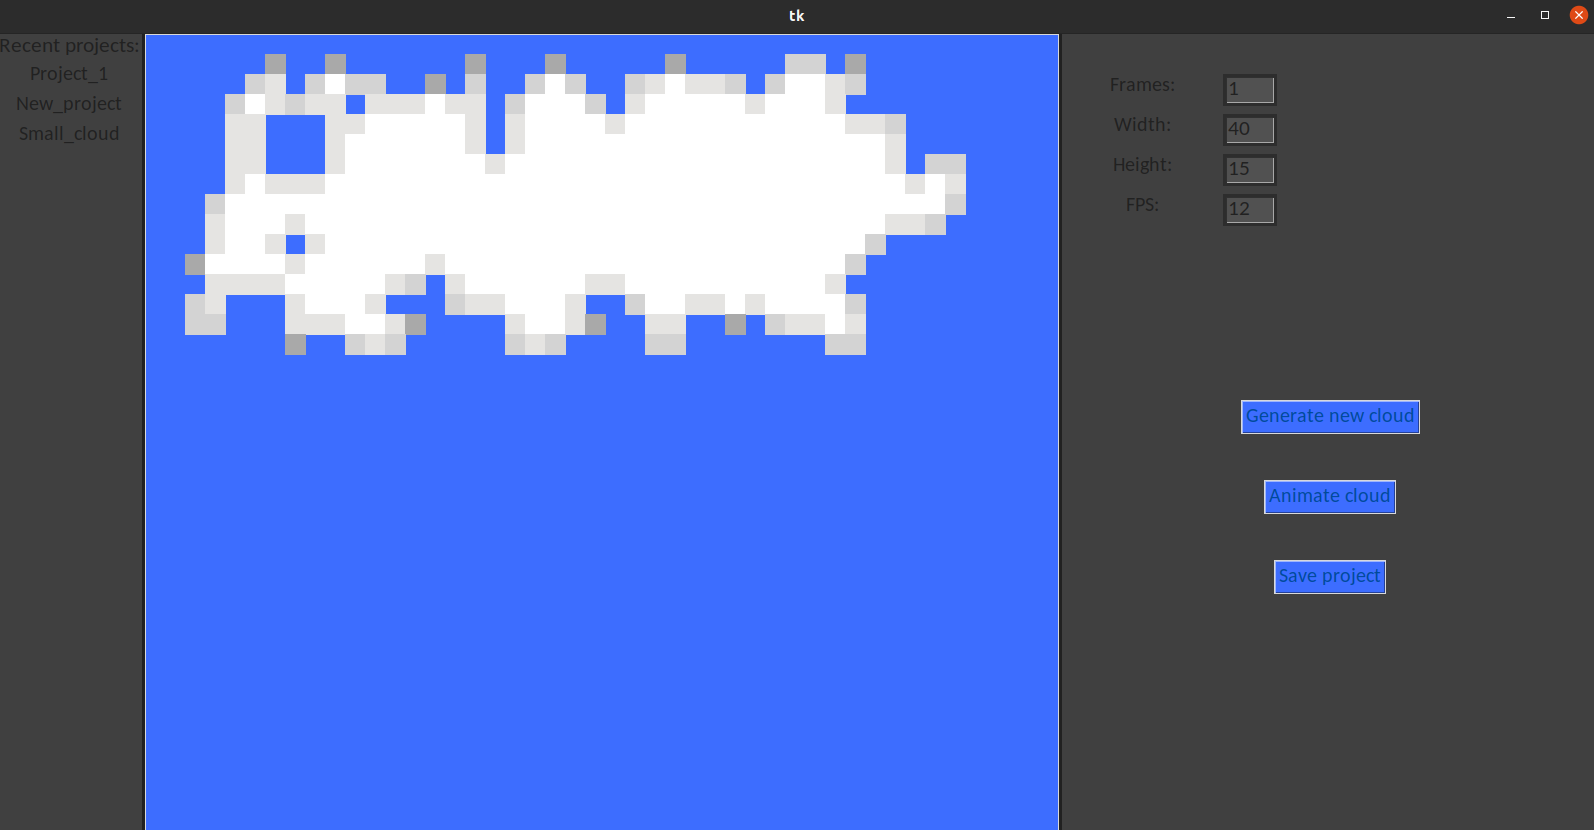
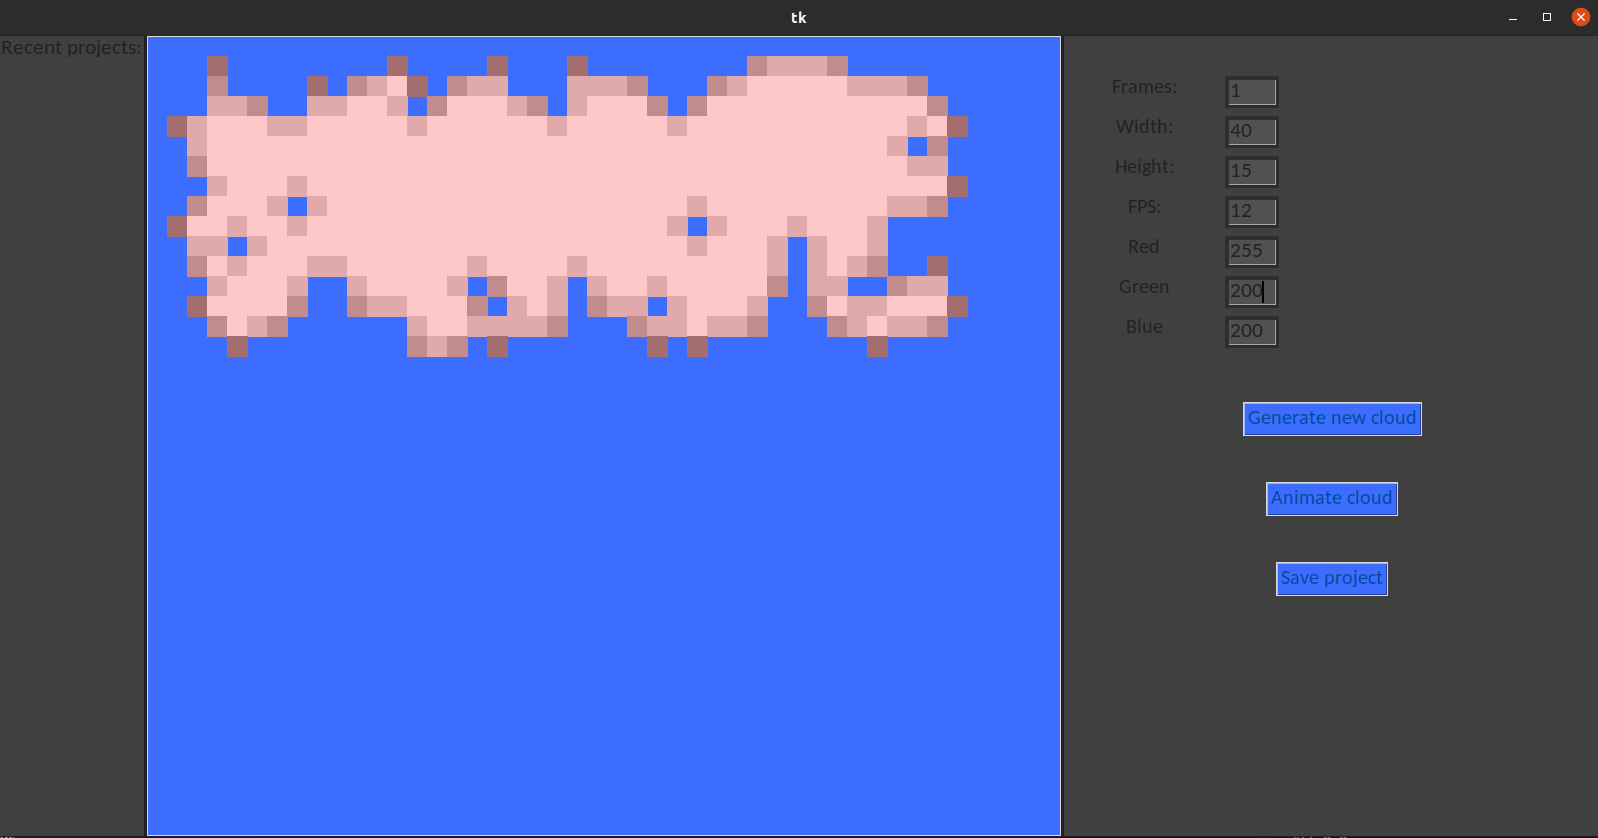
Added changeble colors

diff --git a/src/graphical_user_interface.py b/src/graphical_user_interface.py
@@ -29,6 +29,7 @@ class GUI:
             'canvas_frames' : ['first'],
             'animating' : False,
             'loading_text' : None,
+            'color' : '#ffffff'
         }
         self.widget = Widget(color_palette)
 
@@ -93,7 +94,7 @@ class GUI:
                 label.place(x=100, y=50)
                 labels[i].append(label)
             elif i == 2 and page == 'editor_screen':
-                option_labels=['Frames:', 'Width:', 'Height:', 'FPS:']
+                option_labels=['Frames:', 'Width:', 'Height:', 'FPS:', 'Red', 'Green', 'Blue']
                 for text_i, text in enumerate(option_labels):
                     label = self.widget.label(frame, text)
                     label.place(
@@ -113,13 +114,14 @@ class GUI:
         Returns:
             textboxes: a list containing all the generated textboxes.
         """
-        frames = self.pages[page]['frames']
+        frames, textboxes = (self.pages[page]['frames'],[])
         #Creation of textbox
-        textboxes=[]
         for i, frame in enumerate(frames):
             if page == 'creation_screen' and i == 1:
-                textbox = self.widget.textbox(frame)
-                strv = tk.StringVar(value = 'Enter name of project...')
+                textbox,strv = (
+                    self.widget.textbox(frame),
+                    tk.StringVar(value = 'Enter name of project...')
+                    )
                 textbox.configure(
                     font=('calibri', 25),
                     width=50,
@@ -150,12 +152,21 @@ class GUI:
                         width=4,
                         textvariable = strv
                         )
-                    strv.trace(
-                        "w",
-                        lambda *args,
-                        strv=strv:
-                        self.textbox_update(strv)
-                        )
+                    if textbox_i < 4:
+                        strv.trace(
+                            "w",
+                            lambda *args,
+                            strv=strv:
+                            self.textbox_update(strv)
+                            )
+                    else:
+                        strv.trace(
+                            "w",
+                            lambda *args,
+                            strv=strv,
+                            textbox_i=textbox_i:
+                            self.color_values(strv, (textbox_i-4)*2)
+                            )
                     textbox.place(
                         anchor='nw',
                         relx = 0.30,
@@ -258,7 +269,10 @@ class GUI:
             'frames' : tk.StringVar(value=1),
             'width' : tk.StringVar(value=40),
             'height' : tk.StringVar(value=15),
-            'fps' : tk.StringVar(value=12)
+            'fps' : tk.StringVar(value=12),
+            'red' : tk.StringVar(value=255),
+            'green' : tk.StringVar(value=255),
+            'blue' : tk.StringVar(value=255)
             }
         self.window.geometry(str(window_size*2)+'x'+str(window_size))
         self.pages['creation_screen']['main_frame'] = self.widget.frame(self.window)
@@ -289,22 +303,41 @@ class GUI:
             new_project = Project(name)
             if new_project.table:
                 self.project_options['table'] = self.reconstruct_table(new_project.table)
-                if new_project.table_height:
-                    self.cloud_options['height'].set(new_project.table_height)
-                if new_project.table_width:
-                    self.cloud_options['width'].set(new_project.table_width)
-                if new_project.frame_count:
-                    self.cloud_options['frames'].set(new_project.frame_count)
+                if new_project.table_options['height']:
+                    self.cloud_options['height'].set(new_project.table_options['height'])
+                if new_project.table_options['width']:
+                    self.cloud_options['width'].set(new_project.table_options['width'])
+                if new_project.table_options['frame_count']:
+                    self.cloud_options['frames'].set(new_project.table_options['frame_count'])
+                if new_project.fps:
+                    self.cloud_options['fps'].set(new_project.fps)
+                if new_project.color:
+                    self.cloud_options['red'].set(new_project.color['red'])
+                    self.cloud_options['green'].set(new_project.color['green'])
+                    self.cloud_options['blue'].set(new_project.color['blue'])
+
                 self.draw_cloud(self.project_options['table'])
             self.show('editor_screen')
             self.project_options['current_project'] = new_project
         else:
             project = self.project_options['current_project']
             project.table = self.project_options['table']
-            project.table_height,project.table_width,project.frame_count = (
+            (
+                project.table_options['height'],
+                project.table_options['width'],
+                project.table_options['frame_count'],
+                project.fps,
+                project.color
+                ) = (
                 len(self.project_options['table']),
                 len(self.project_options['table'][0]),
-                self.cloud_options['frames'].get()
+                self.cloud_options['frames'].get(),
+                self.cloud_options['fps'].get(),
+                {
+                    'red' : self.cloud_options['red'].get(),
+                    'green': self.cloud_options['green'].get(),
+                    'blue' : self.cloud_options['blue'].get()
+                    }
                 )
             project.save_project_data()
 
@@ -422,6 +455,66 @@ class GUI:
         strv.set(new_text)
         self.frame_update=True
 
+    def color_values(self, strv, color_index):
+        """This function validates and converts the RGB values into hexadecimal.
+
+        Args:
+            strv (_type_): The StringVariable that contains the input.
+            color_index (_type_): An index that determines
+            which part of the hexadecimal the value belongs to
+        """
+        print(color_index)
+        text = strv.get()
+        new_text=''
+        for i in text:
+            if i.isdigit():
+                new_text+=i
+        if len(new_text) == 0:
+            new_text='0'
+        if int(new_text)>255:
+            new_text = '255'
+        strv.set(new_text)
+        hex_color = hex(int(new_text)).replace('0x','')
+        print(hex_color)
+        if len(hex_color) == 1:
+            hex_color = '0'+hex_color
+        self.animation_options['color'] = (
+            self.animation_options['color'][:color_index+1]+
+            hex_color+
+            self.animation_options['color'][color_index+3:]
+            )
+        print(self.animation_options['color'])
+        self.frame_update=True
+        self.draw_cloud(self.project_options['table'])
+
+    def darken_color(self, color_code, level):
+        """This function darkens the specified color value depending on the specified level.
+
+        Args:
+            color_code (_type_): The color value to darken.
+            level (_type_): The lower level, the darker.
+
+        Returns:
+            color_code: The darkened color value.
+        """
+        red = int('0x'+color_code[1:3],16) - (4-level)*30
+        blue = int('0x'+color_code[3:5],16) - (4-level)*30
+        green = int('0x'+color_code[5:7],16) - (4-level)*30
+        red = max(red, 0)
+        blue = max(blue, 0)
+        green = max(green, 0)
+        red = hex(red).replace('0x', '')
+        blue = hex(blue).replace('0x', '')
+        green = hex(green).replace('0x', '')
+        if len(red) == 1:
+            red = '0'+red
+        if len(blue) == 1:
+            blue = '0'+blue
+        if len(green) == 1:
+            green = '0'+green
+        return '#'+red+blue+green
+
+
     def draw_cloud(self, table=None, cloud_tag='first'):
         """Generates a cloud using the Node class and draws it onto the previously generated canvas.
 
@@ -432,7 +525,11 @@ class GUI:
         """
         canvas, neighbor_color, self.animation_options['loading_text'], scale = (
             self.pages['editor_screen']['canvas'][-1],
-            {1: "#A9A9A9", 2 : "#D3D3D3", 3 : "#E5E4E2"},
+            {
+                1: self.darken_color(self.animation_options['color'], 1),
+                2 : self.darken_color(self.animation_options['color'], 2),
+                3 : self.darken_color(self.animation_options['color'], 3)
+                },
             None,
             [int(self.cloud_options['height'].get()),int(self.cloud_options['width'].get())]
             )
@@ -454,7 +551,7 @@ class GUI:
                 if not node:
                     continue
                 if len(node.neighbors) not in neighbor_color:
-                    cloud_color="white"
+                    cloud_color=self.animation_options['color']
                 else:
                     cloud_color=neighbor_color[len(node.neighbors)]
                 canvas.create_rectangle(

diff --git a/src/database.py b/src/database.py
@@ -14,10 +14,14 @@ class Project:
 
         self.name = name
         self.id = None
-        self.table_width = None
-        self.table_height = None
-        self.frame_count = None
+        self.table_options = {
+            'width' : None,
+            'height' : None,
+            'frame_count' : None
+            }
         self.table = None
+        self.fps = None
+        self.color = None
 
         self.create_tables()
         if initialize:
@@ -37,7 +41,11 @@ class Project:
         (id INTEGER PRIMARY KEY AUTOINCREMENT,
         table_width INTEGER,
         table_height INTEGER,
-        frame_count INTEGER)
+        frame_count INTEGER,
+        fps INTEGER,
+        red INTEGER,
+        green INTEGER,
+        blue INTEGER)
         ''')
         #self.cur.execute('''DROP TABLE IF EXISTS cloud''')
         self.cur.execute('''CREATE TABLE IF NOT EXISTS cloud
@@ -71,9 +79,22 @@ class Project:
         """
         self.cur.execute("""SELECT * FROM project_data WHERE id = ?""", (self.id,))
 
-        self.cur.execute("""INSERT OR REPLACE INTO project_data
-        (id, table_width, table_height, frame_count) VALUES (?,?,?,?)""",
-        (self.id, self.table_width, self.table_height, self.frame_count))
+        self.cur.execute(
+            """INSERT OR REPLACE INTO project_data
+            (id, table_width, table_height, frame_count, fps, red, green, blue)
+            VALUES (?,?,?,?,?,?,?,?)""",
+            #print(self.color)
+            (
+                self.id,
+                self.table_options['width'],
+                self.table_options['height'],
+                self.table_options['frame_count'],
+                self.fps,
+                self.color['red'],
+                self.color['green'],
+                self.color['blue']
+                )
+            )
 
         self.cur.execute("""SELECT * FROM cloud WHERE id = ?""", (self.id,))
         if self.cur.fetchone():
@@ -98,13 +119,15 @@ class Project:
         data = self.cur.execute("""SELECT * FROM project_data WHERE id=?""",
         (self.id,)).fetchone()
         if data:
-            self.table_width = data[1]
-            self.table_height = data[2]
-            self.frame_count = data[3]
+            self.table_options['width'] = data[1]
+            self.table_options['height'] = data[2]
+            self.table_options['frame_count'] = data[3]
+            self.fps = data[4]
+            self.color = {'red' : data[5], 'green' : data[6], 'blue' : data[7]}
 
             new_table = []
-            for _ in range(0, self.table_height):
-                new_table.append([None]*self.table_width)
+            for _ in range(0, self.table_options['height']):
+                new_table.append([None]*self.table_options['width'])
 
             rows = self.cur.execute("""SELECT * FROM cloud WHERE id=?""",
             (self.id,)).fetchall()

diff --git a/dokumentaatio/vaatimusmaarittely.md b/dokumentaatio/vaatimusmaarittely.md
@@ -19,10 +19,16 @@ The work environment consists of a sprite viewer, a settings tab and a list of r
 New projects are created with certain predefined settings, that can be edited afterwards. During the creation the user is also prompted to select a project name, which has to be unique. If a name of an existing project is selected, said project will be opened instead. The left tab of the creation page lists recently created projects. These can be opened by clicking them or writing their name in the entry field. Opening an old project or creating a new one loads in said project to the work environment.  
 
 ### Work environment "Done"
-In the work environment attributes can be changed by typing new values into the textboxes. The attributes affect the appearance and animated behaviour of the cloud. The sprite viewer shows the current state of the cloud sprite being worked at. If FPS is not set to 0 the viewer can be animated by pressing the animate button. Otherwise only the first frame is shown. The settings tab consists of the editable attributes as well as the animate and save buttons. The save button saves the project settings to the database, which can be loaded in again later to access the same cloud.
+In the work environment attributes can be changed by typing new values into the textboxes. The attributes affect the appearance and animated behaviour of the cloud. The sprite viewer shows the current state of the cloud sprite being worked at. If FPS is not set to 0 the viewer can be animated by pressing the animate button. Otherwise only the first frame is shown. The settings tab consists of the editable attributes as well as the animate and save buttons. The save button saves the project settings to the database, which can be loaded in again later to access the same cloud.  
+
+### Settings "Done"
+- Frames: How many frames to generate for the animation.
+- Width and Height: Affects the size of the cloud to generate.
+- FPS: The Frames per Second in the animation.
+- Red, Green and Blue: The color values of the generated cloud (max 255 and min 0)
 
 ### Cloud generation algorithm "Done"
-Clouds are generated based on the set values for *Length* and *Height*. Because all clouds are unique, randomness will also be implemented into the algorithm. Each pixel will have a random chance to generate a neighboring pixel. Altough the clod will always reach the specified *Length* and *Height*.
+Clouds are generated based on the set values for *Length* and *Height*. Because all clouds are unique, randomness will also be implemented into the algorithm. Each pixel will have a random chance to generate a neighboring pixel. Altough the cloud will always reach the specified *Length* and *Height*.
 
 ### Wind simulation "Done"
 The basic idea is that each pixel in the cloud is a node. Each node can have up to 4 neighbors, which are the adjecent pixels. During the animation the nodes rotate around on the canvas in an orbit. This motion makes the cloud seem to rotate. The orbit shape is rectangular and the width and height is defined by the canvas width and height.

diff --git a/dokumentaatio/changelog.md b/dokumentaatio/changelog.md
@@ -27,8 +27,10 @@
   *Projects are loaded by creating a new project with the same name as a previous one*
 
 ## Week7
+
 - Implemented options in the editor that affect the appearance and animation of the generated clouds.
   *Frame count, width, height and FPS*
 - Optimized the generation algorithm and animation to be able to handle larger clouds.
   *The first time something is animated and the frames are being generated the animation plays more slowly*
 - Made it possible to open a project by clicking their labels in the recent projects tab.
+- Made it possible to change the color of the cloud by entering RGB values in the editor.

diff --git a/dokumentaatio/tyoaikakirja.md b/dokumentaatio/tyoaikakirja.md
@@ -17,5 +17,5 @@ Programming languange: Python
 | 08.5. | 2    | Optimization of animation. |
 | 12.5. | 2    | Optimization of animation. |
 | 13.5. | 2    | Optimization and tweaking of the generation algorithm. Added changable FPS. |
-| 14.5. | 5    | Optimization, cleanup, docstring and added the ability to open projects from the project list. |
-| Total | 52   | - |
+| 14.5. | 7    | Optimization, cleanup, docstring, added the ability to open projects from the project list. Added changable color values for the cloud |
+| Total | 54   | - |
